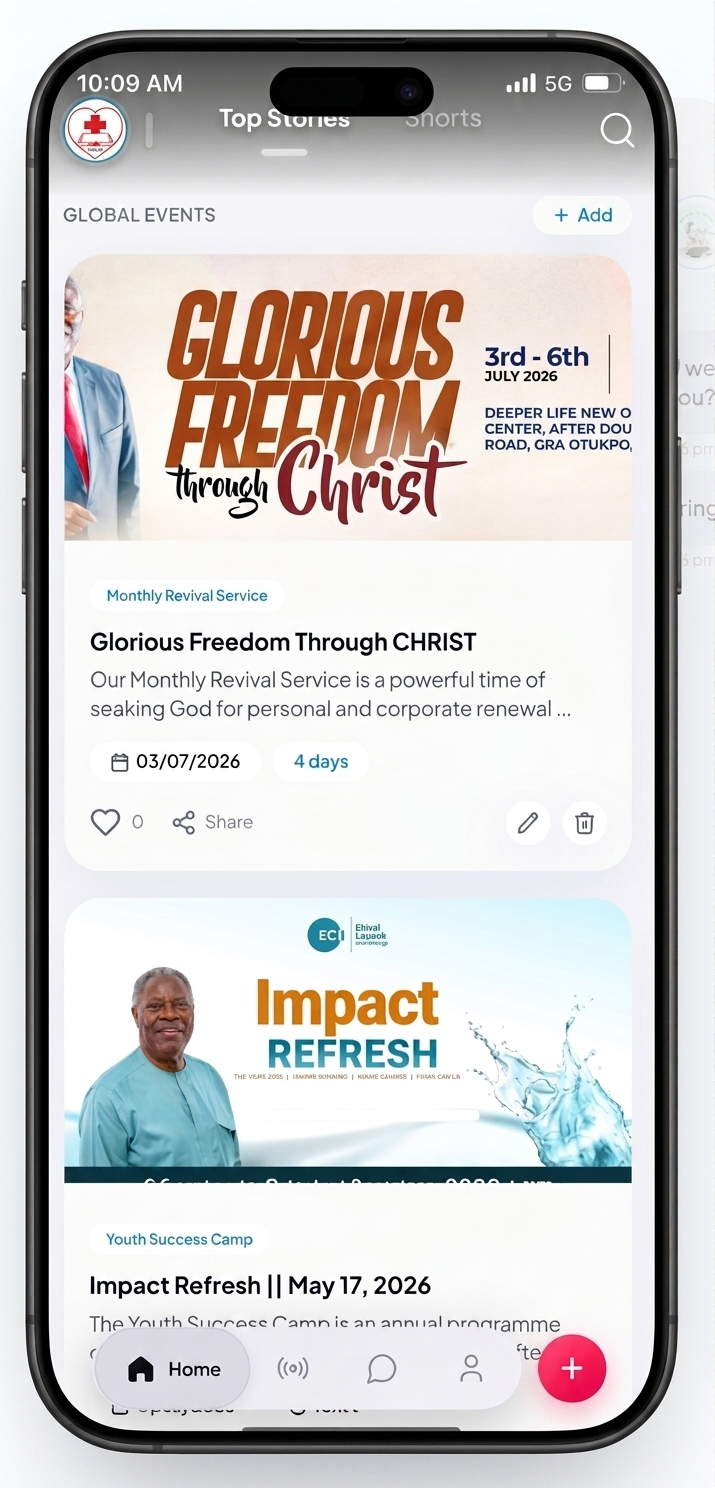
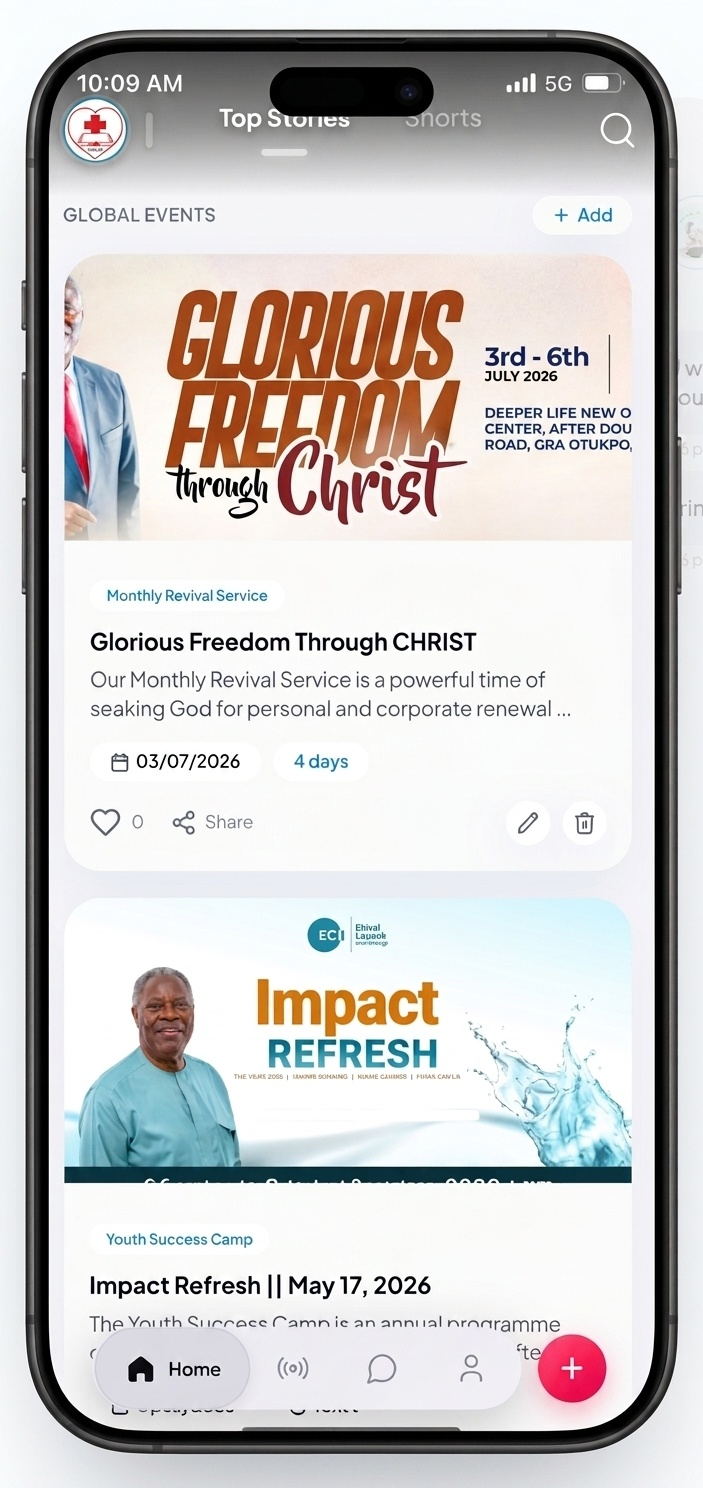
Round mobile carousel corners, restore peeking-next-slide effect, trim excess margin

diff --git a/src/components/site/MobileCarousel.tsx b/src/components/site/MobileCarousel.tsx
@@ -6,28 +6,40 @@ type Slide = { src: string; label: string };
 
 /**
  * Carousel used in the "Mobile apps" service block. The source photos
- * already have a real phone frame baked in (not a CSS mockup), so they're
- * rendered as-is here, uncropped, with no extra device frame on top.
+ * already have a real phone frame baked in (not a CSS mockup), so the
+ * corners are just clipped round here rather than re-framed — and the
+ * next slide peeks out from behind, same as the rest of the site's
+ * carousels.
  */
 export function MobileCarousel({ slides }: { slides: Slide[] }) {
   const [index, setIndex] = useState(0);
   const current = slides[index]!;
+  const next = slides[(index + 1) % slides.length]!;
 
   const advance = () => setIndex((i) => (i + 1) % slides.length);
 
   return (
     <div className="relative mx-auto w-full max-w-[158px]">
-      <button
-        onClick={advance}
-        aria-label={`Currently showing ${current.label}. Tap for next screen.`}
-        className="bouncy block w-full cursor-pointer hover:-translate-y-1"
-      >
-        <img
-          src={current.src}
-          alt={current.label}
-          className="w-full object-contain drop-shadow-[0_25px_50px_rgba(11,18,32,0.35)]"
-        />
-      </button>
+      <div className="relative">
+        {/* peeking next screen */}
+        <div className="pointer-events-none absolute inset-y-4 -right-5 z-0 w-12 overflow-hidden rounded-[1.1rem]">
+          <img
+            src={next.src}
+            alt=""
+            className="h-full w-[158px] max-w-none object-cover object-top"
+          />
+          <div className="absolute inset-0 bg-gradient-to-r from-card/5 via-card/60 to-card" />
+        </div>
+
+        {/* active screen */}
+        <button
+          onClick={advance}
+          aria-label={`Currently showing ${current.label}. Tap for next screen.`}
+          className="bouncy relative z-10 block w-full cursor-pointer overflow-hidden rounded-[1.4rem] shadow-[0_25px_50px_-20px_rgba(11,18,32,0.45)] hover:-translate-y-1"
+        >
+          <img src={current.src} alt={current.label} className="w-full object-cover" />
+        </button>
+      </div>
 
       <div className="mt-5 flex items-center justify-between">
         <p className="text-sm font-semibold ink">{current.label}</p>
